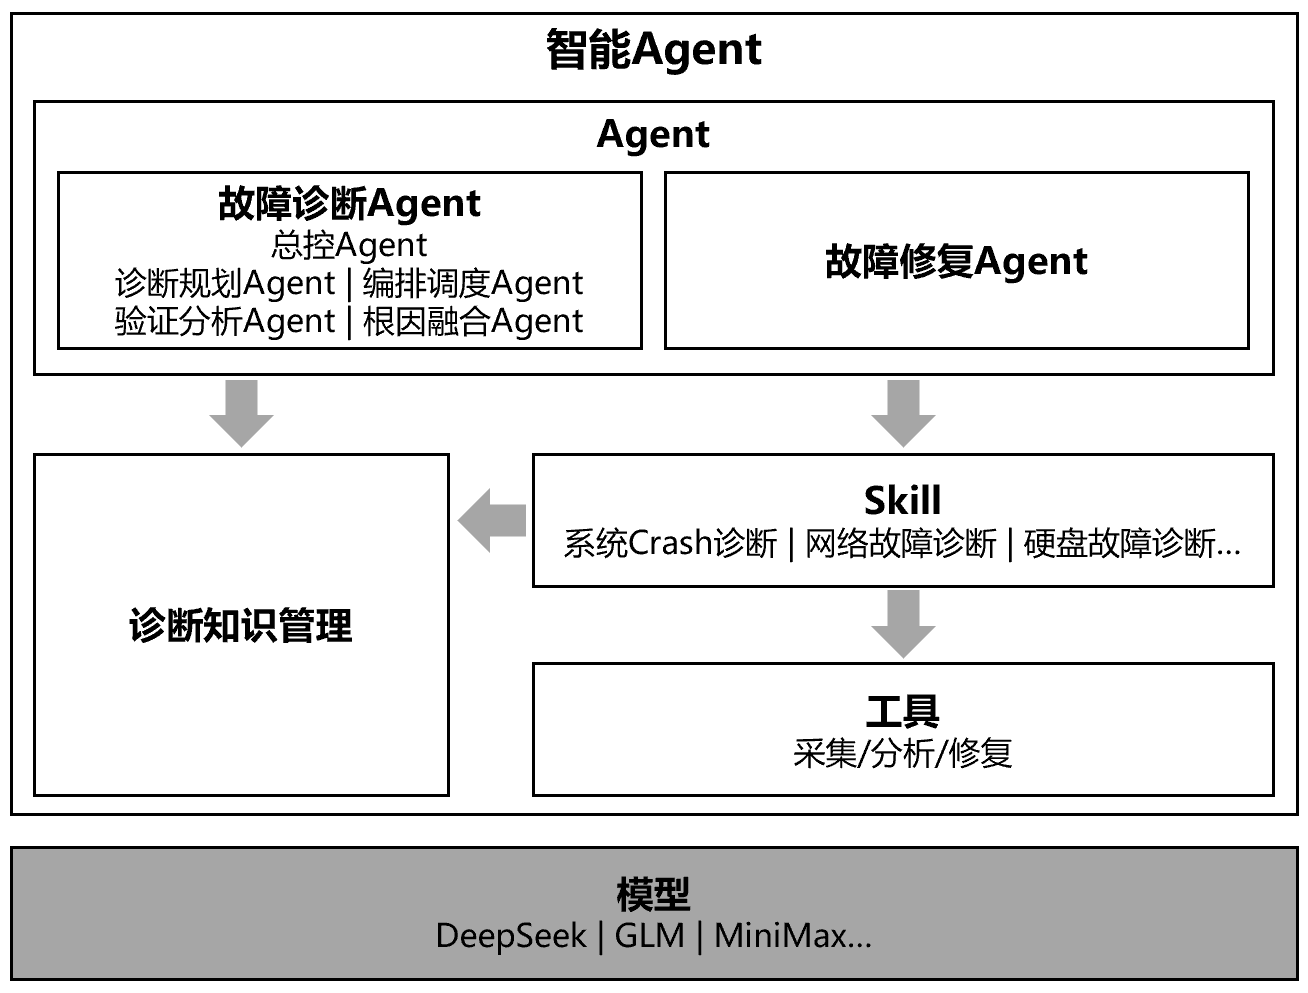
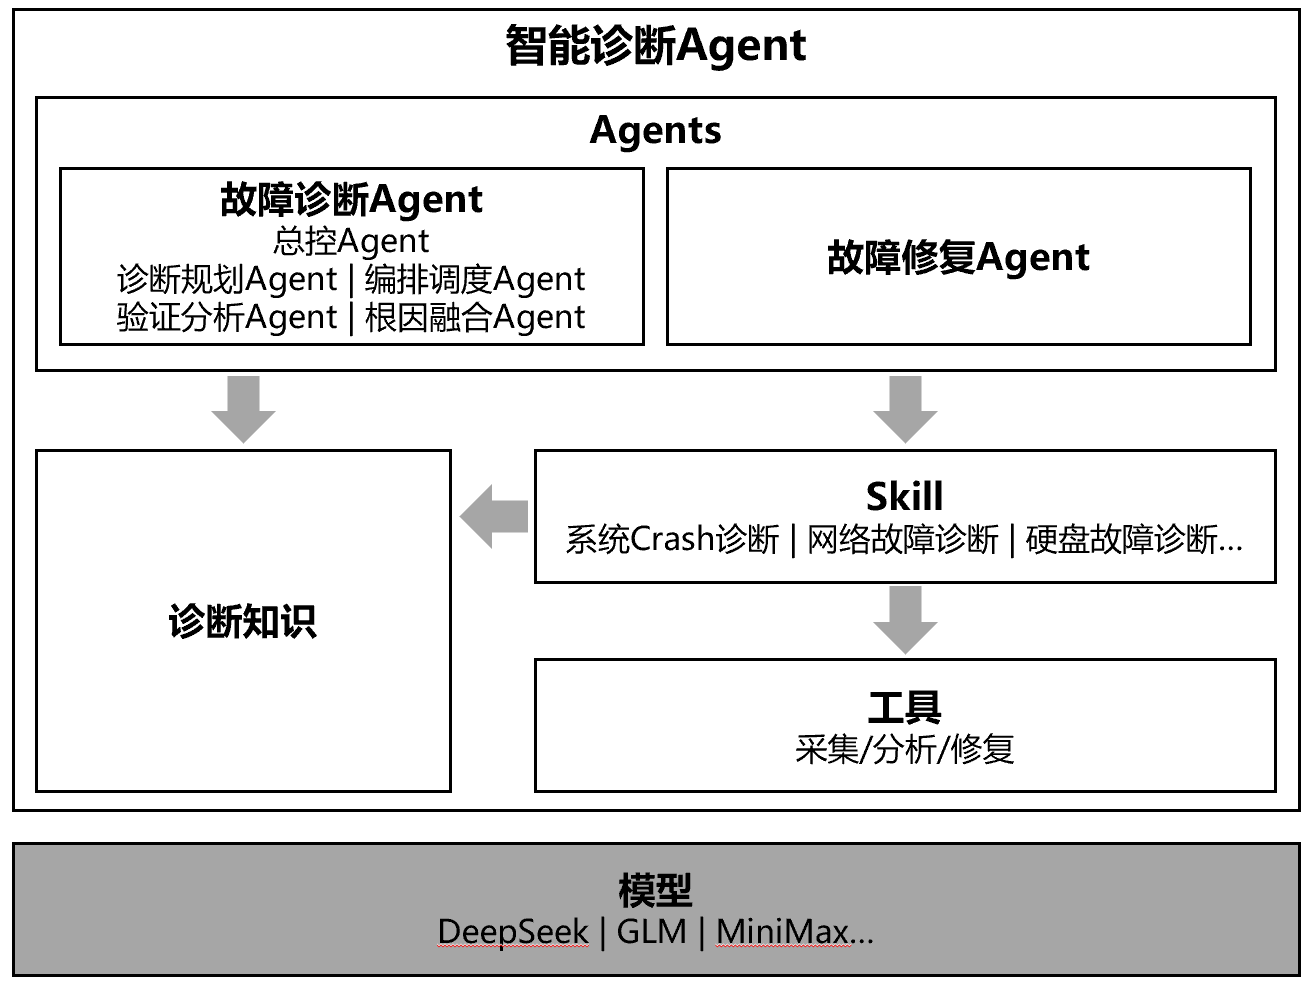
1）增加进程 CORE 故障诊断示例；2）解决架构图错误的问题

diff --git a/README.md b/README.md
@@ -9,6 +9,10 @@ Witty 智能诊断 Agent 基于「假设-验证」（Hypothetico-Deductive）故
 - **端到端闭环自愈**：涵盖“现象分析、根因定界、生成报告、执行修复”全链路，提供一站式自动化运维。
 - **严格的安全管控**：诊断排查阶段严格只读，仅修复阶段按需赋予操作权限，且变更必经用户审批确认。
 
+<div align="center">
+  <img src="docs/assets/sys_crash_diag.gif" alt="系统宕机故障诊断" />
+</div>
+
 ### 架构与核心能力
 
 Witty 智能诊断 Agent 采用“Agent-Skill-工具-知识”四层解耦架构，兼具高灵活性与可扩展性。
@@ -43,6 +47,8 @@ Witty 智能诊断 Agent 采用“Agent-Skill-工具-知识”四层解耦架构
 
 > 💡 **更多基于 OS 全栈（硬件层 -> 内核层 -> 系统服务层）的诊断能力持续演进中...**
 
+---
+
 ### 快速开始
 
 #### 环境要求
@@ -74,6 +80,8 @@ cd witty-diagnosis-agent
 bash install.sh
 ```
 
+---
+
 ### 如何使用
 
 1. 启动 \*\*OpenCode \*\*。
@@ -96,7 +104,180 @@ bash install.sh
    
    <img src="docs/assets/guide_auto_diag_report.png" alt="诊断报告" width="800" />
 
-如需了解更多操作细节，可查阅[用户手册](docs/guide/MANUAL.md)；支持的诊断能力与功能说明详见[功能列表](docs/reference/features.html)。
+如需了解更多操作细节，可查阅[用户手册](docs/guide/MANUAL.md)；支持的诊断能力与功能说明详见[功能列表](docs/reference/features.md)。
+
+---
+
+### 进程 CORE 故障诊断示例
+
+本节以 WSL2 Ubuntu 系统为例，演示如何使用 Witty 智能诊断 Agent 分析进程 Core Dump 文件。本示例仅用于演示和体验智能诊断 Agent 的分析过程和输出报告。由于示例代码非常简单（空指针解引用），直接使用原生 OpenCode 或任何调试工具也能定位出根因。对于更复杂的生产环境故障，智能诊断 Agent 的系统化排查能力将展现更大优势。
+
+#### 1. 修改系统配置以获得进程 Core Dump 文件
+
+默认情况下，Linux 系统可能禁用了进程 core dump 功能。请使用 root 用户执行以下步骤启用：
+
+```bash
+# 查看当前 core dump 配置（0 表示禁用）
+ulimit -c
+
+# 临时启用 core dump（不限制文件大小）
+ulimit -c unlimited
+
+# 永久启用：在 /etc/security/limits.conf 末尾添加
+echo "* soft core unlimited" >> /etc/security/limits.conf
+echo "* hard core unlimited" >> /etc/security/limits.conf
+
+# 停用 apport（否则会拦截并吃掉 core 文件）
+sudo service apport stop
+sudo systemctl disable apport
+
+# 设置 core dump 文件存放路径和命名格式（当前目录）
+sudo sysctl -w kernel.core_pattern=core.%e.%p
+
+# 验证配置
+ulimit -c
+cat /proc/sys/kernel/core_pattern
+```
+
+> **说明**：`%e` 为进程名，`%p` 为进程 PID。core 文件将保存在当前工作目录。
+
+#### 2. 开发会产生 Core Dump 的示例 C 代码
+
+创建 `crash_demo.c` 文件：
+
+```c
+#include <stdio.h>
+#include <stdlib.h>
+
+void trigger_segfault() {
+    int *ptr = NULL;
+    *ptr = 42;
+}
+
+int main() {
+    printf("Starting crash demo...\n");
+    trigger_segfault();
+    return 0;
+}
+```
+
+**安装编译工具和 GDB**：
+
+```bash
+sudo apt update && sudo apt install -y gcc gdb
+```
+
+**编译（禁用优化，开启调试符号）**：
+
+```bash
+gcc -g -O0 -o crash_demo crash_demo.c
+```
+
+**运行**：
+
+```bash
+./crash_demo
+```
+
+执行后将触发段错误并产生 core dump 文件：
+
+```
+Starting crash demo...
+Segmentation fault (core dumped)
+```
+
+**查看生成的 core 文件**：
+
+```bash
+ls -la ./core.*
+```
+
+#### 3. 在 WSL 中启动 OpenCode 并使用智能诊断 Agent 分析
+
+**启动 OpenCode**：
+
+```bash
+opencode
+```
+
+**加载 Xuanyuan Agent**：执行 `/agents` 命令，选择 `Xuanyuan` Agent。
+
+**输入问题描述**：
+
+```
+分析/tmp/test目录下的core文件根因。
+```
+
+> **提示**：将 `/tmp/test` 替换为示例 C 代码所在的实际目录路径。
+
+系统将自动执行智能诊断流程，分析进程崩溃原因并输出诊断报告。
+
+---
+
+### 火焰图性能分析示例
+
+本节以 Java Vert.x 应用为例，演示如何使用 Witty 智能诊断 Agent 分析性能瓶颈。输入数据为 `perf script` 格式的性能采样文件，系统将自动生成火焰图并定位热点函数。
+
+#### 1. 准备性能采样数据
+
+火焰图分析技能的输入为 `perf script` 格式的性能采样文件。示例文件已保存在 `tests/data/perf-vertx-stacks-01.txt`。
+
+> **提示**：在生产环境中，您可以使用以下命令采集性能数据：
+> ```bash
+> # 采集 CPU 热点数据（采样 60 秒，每秒 99 次）
+> perf record -F 99 -a -g -p <pid> -- sleep 60
+>
+> # 或者采集指定进程的 CPU 数据
+> perf record -F 99 -p <pid> -g -- sleep 60
+>
+> # 导出为 perf script 格式
+> perf script > /tmp/perf-script.txt
+> ```
+
+#### 2. 在 OpenCode 中启动分析
+
+**启动 OpenCode**：
+
+```bash
+opencode
+```
+
+**加载 Xuanyuan Agent**：执行 `/agents` 命令，选择 `Xuanyuan` Agent。
+
+**输入问题描述**：
+
+```
+使用火焰图分析 tests/data/perf-vertx-stacks-01.txt 文件，定位性能瓶颈根因。
+```
+
+> **提示**：将 `tests/data/perf-vertx-stacks-01.txt` 替换为实际采样文件的路径。
+
+#### 3. 系统自动执行分析流程
+
+系统将自动完成以下分析步骤：
+
+1. **数据转换**：将 `perf script` 格式转换为折叠栈格式
+2. **热点分析**：识别 CPU 热点函数与调用链
+3. **模式匹配**：检测常见性能反模式（如锁竞争、GC overhead、正则回溯等）
+4. **归因分析**：关联系统资源与业务逻辑
+5. **生成报告**：输出交互式火焰图HTML报告与Markdown报告
+
+#### 4. 分析结果示例
+
+分析完成后，系统将生成交互式 HTML 火焰图，直观展示热点调用栈：
+
+<img src="docs/assets/flamegraph_report.png" alt="火焰图分析结果" width="900" />
+
+图中展示了 Java 应用的关键热点函数，火焰越高表示该函数占用的 CPU 时间越多。通过火焰图可以快速定位到性能瓶颈的根源函数。
+
+**HTML 火焰图报告功能说明**：
+
+- **根因分析**：报告顶部提供核心性能问题的根因总结，帮助用户快速理解性能瓶颈所在
+- **关键性能瓶颈项列表**：列出分析到的所有关键性能瓶颈项，每项包含问题描述、帧栈、CPU占用率和样本数
+- **交互式钻取**：点击每个关键发现卡片，火焰图将自动定位并高亮显示对应的调用帧栈，方便用户确认和深入分析
+- **Markdown 报告**：同时生成 Markdown 格式的分析报告，便于归档和分享
+
+---
 
 ### 如何贡献
 
@@ -110,6 +291,8 @@ bash install.sh
 
 - 提交 [issue](https://atomgit.com/openeuler/witty-diagnosis-agent/issues)
 - 发送邮件至 <intelligence@openeuler.org>
+
+---
 
 ### License
 
